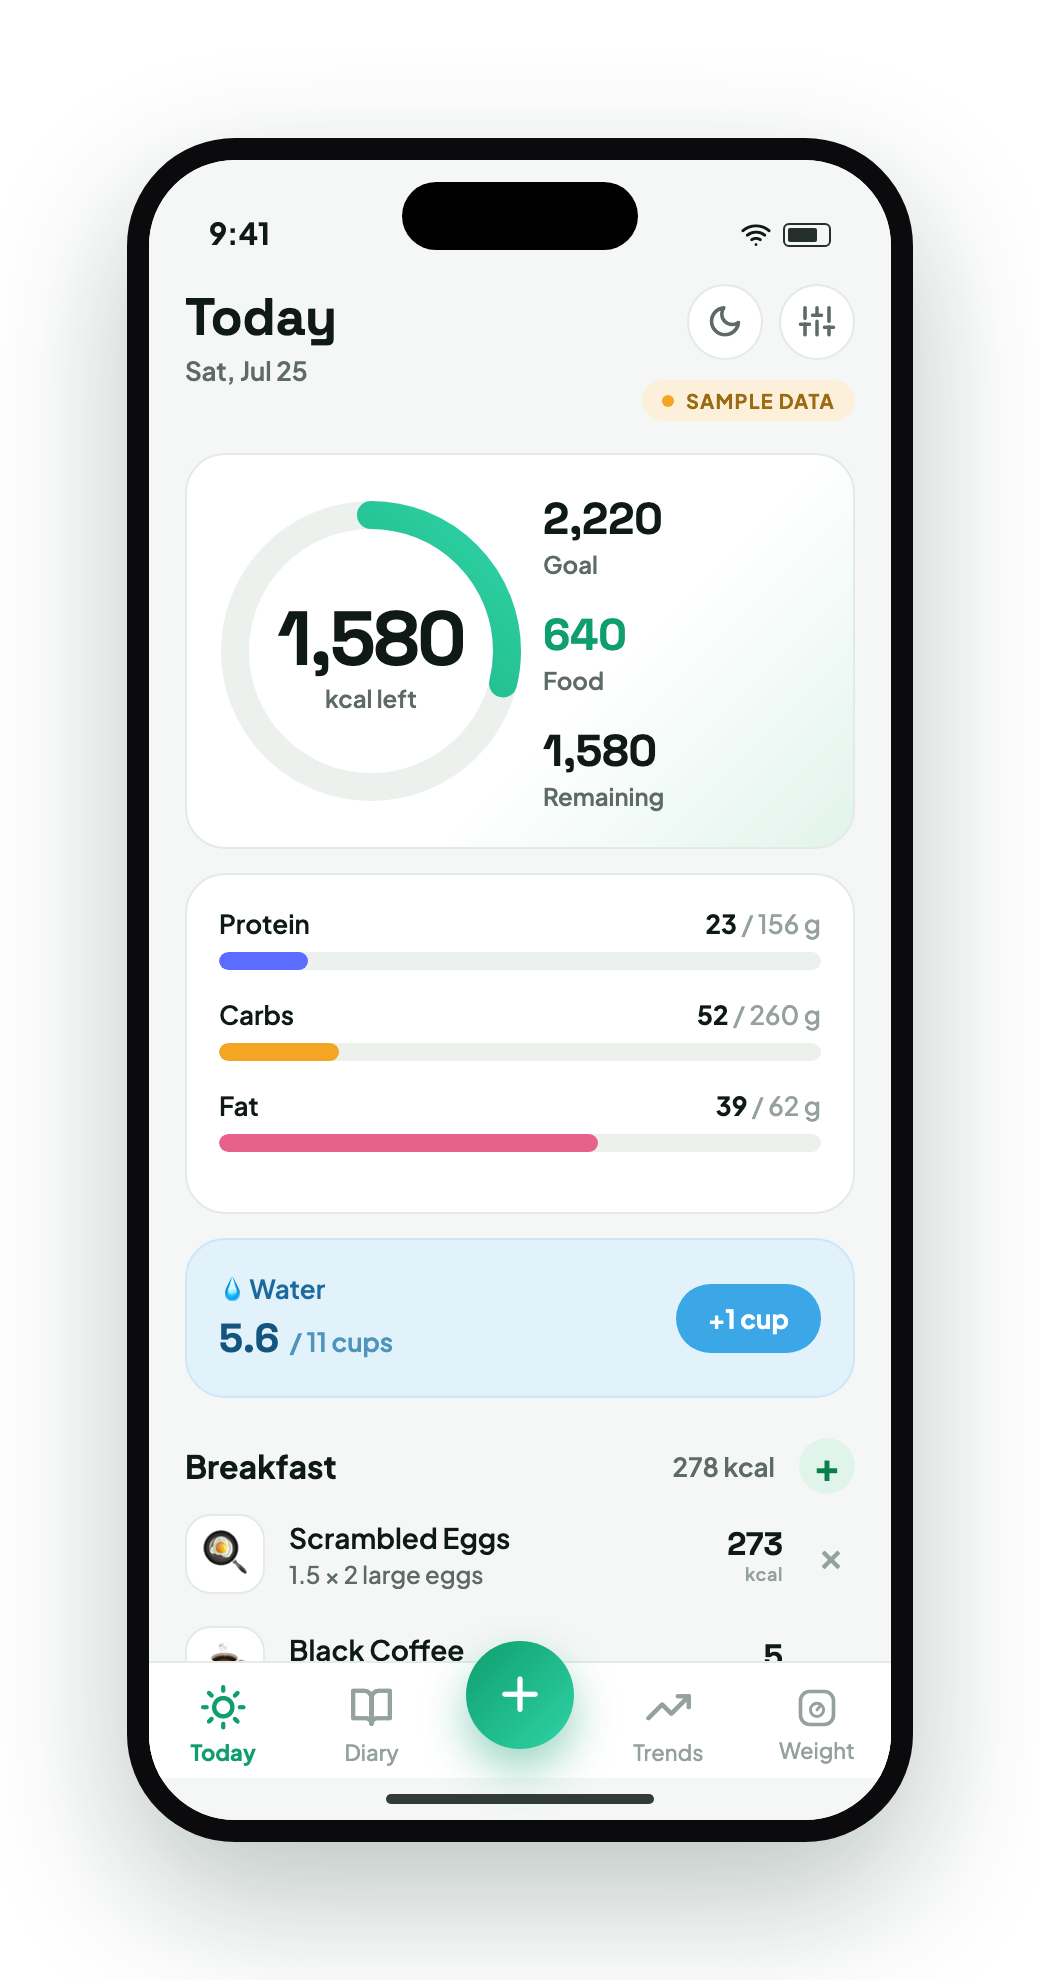
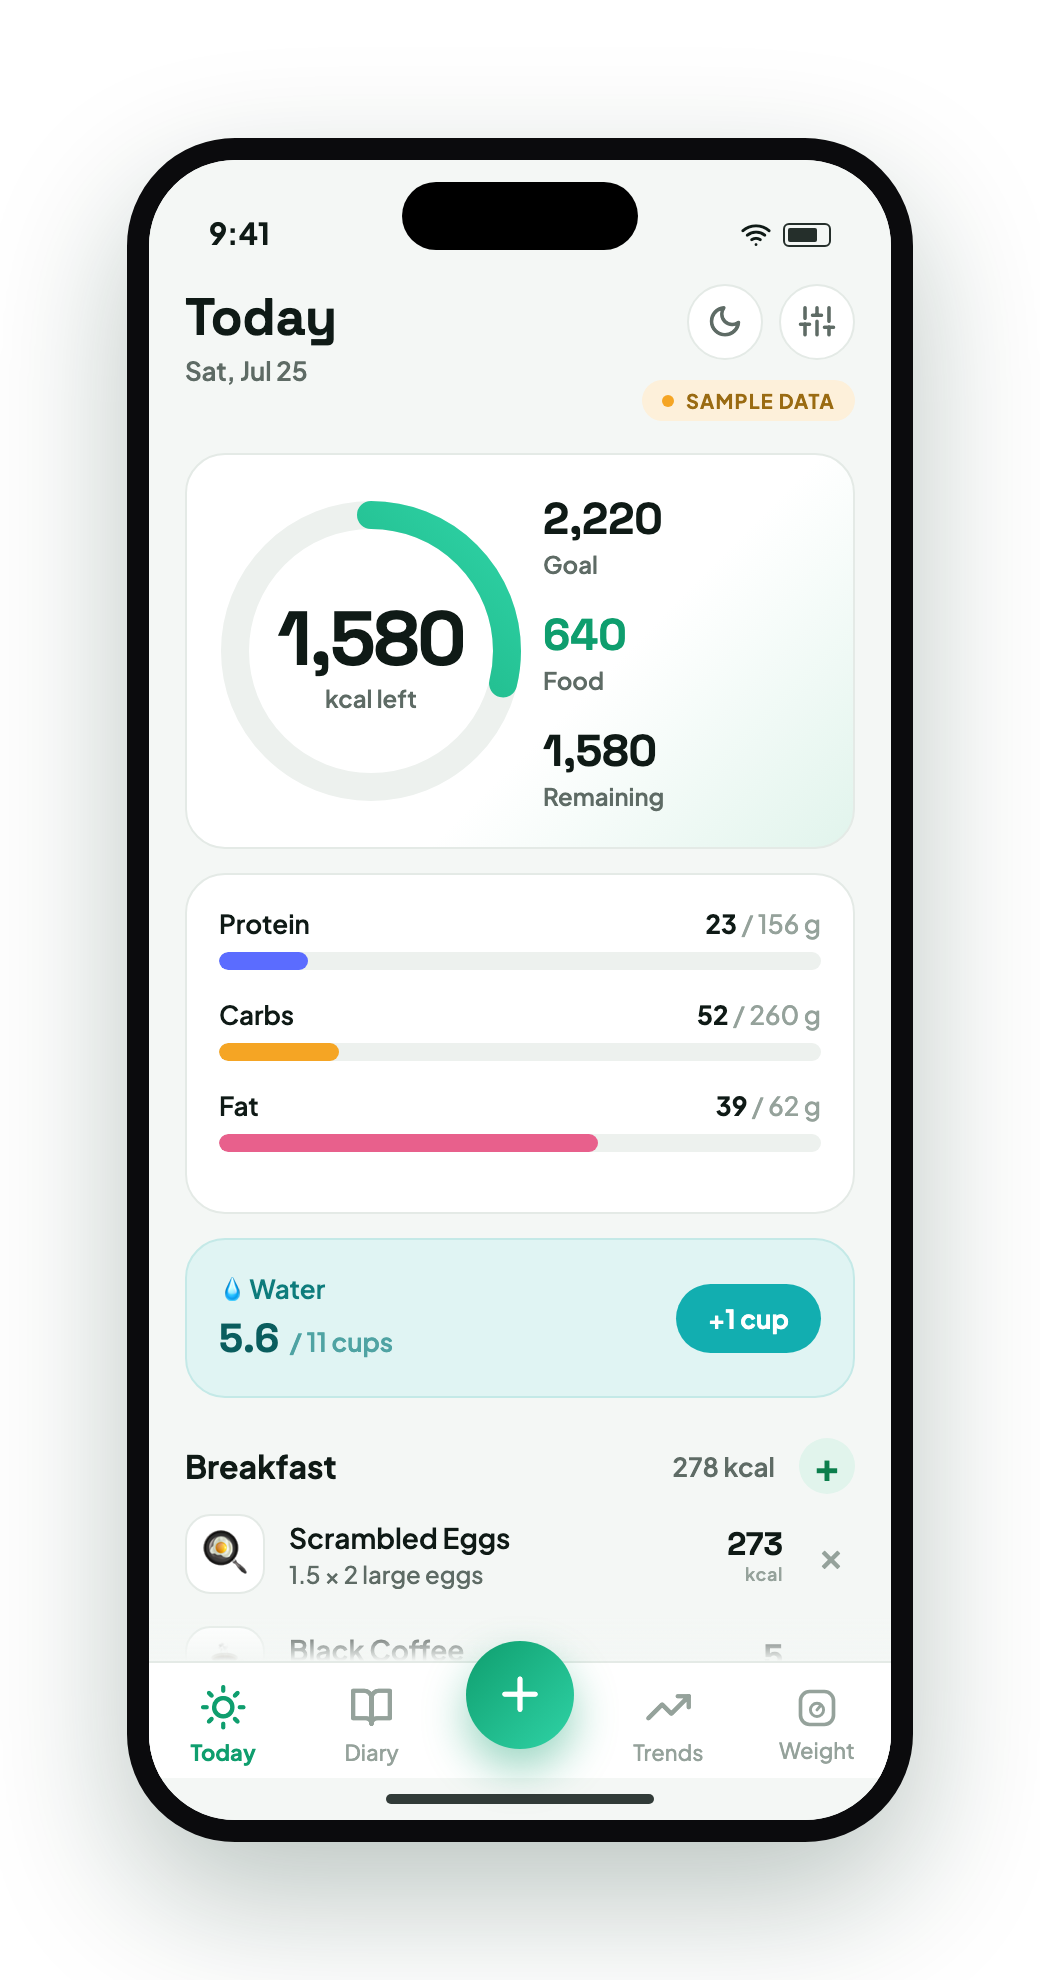
Eat2Beat: close remaining design nitpicks
- Water card retuned to teal — now in-family with the emerald/mint accents
  instead of an unrelated blue.
- All three donuts carry a center value (Add + FoodDetail = kcal, Trends =
  avg kcal/day); FoodDetail's right column now shows the serving, not a
  duplicate kcal number.
- Soft bottom fade on tab content (expo-linear-gradient) so scrolling
  content dissolves into the tab bar instead of a hard cut.
- Diary meal-header size aligned with Today; SectionTitle bumped for
  clearer hierarchy.

tsc clean; 37/37 tests green.

diff --git a/eat2beat/src/screens/FoodDetail.tsx b/eat2beat/src/screens/FoodDetail.tsx
@@ -42,10 +42,10 @@ export default function FoodDetail({
         </View>
 
         <View style={styles.kcalCard}>
-          <MacroDonut pct={pct} size={120} stroke={18} />
+          <MacroDonut pct={pct} size={120} stroke={18} centerValue={fmt(food.kcal)} centerLabel="kcal" />
           <View style={styles.kcalRight}>
-            <Text style={styles.kcalBig}>{fmt(food.kcal)}</Text>
-            <Text style={styles.kcalUnit}>kcal / serving</Text>
+            <Text style={styles.kcalServingLabel}>per serving</Text>
+            <Text style={styles.kcalServing}>{food.serving}</Text>
           </View>
         </View>
 
@@ -127,8 +127,8 @@ const makeStyles = (C: Palette) =>
       padding: 18,
     },
     kcalRight: { flex: 1 },
-    kcalBig: { fontFamily: FONT.display, fontSize: 40, color: C.text, letterSpacing: -1 },
-    kcalUnit: { fontFamily: FONT.bodySemi, fontSize: 13, color: C.textDim },
+    kcalServingLabel: { fontFamily: FONT.bodySemi, fontSize: 12, color: C.textFaint, letterSpacing: 0.3, textTransform: 'uppercase' },
+    kcalServing: { fontFamily: FONT.display, fontSize: 20, color: C.text, marginTop: 4 },
 
     factsTitle: { fontFamily: FONT.bodyBold, fontSize: 16, color: C.text, marginTop: 26, marginBottom: 12 },
     facts: {

diff --git a/eat2beat/src/theme.ts b/eat2beat/src/theme.ts
@@ -39,13 +39,14 @@ export const LIGHT = {
   fat: '#E8608C',
   fatSoft: '#FBE7EE',
 
-  // water card
-  water: '#3BA7E6',
-  waterSoft: '#E2F2FB',
-  waterBorder: '#CDE7F7',
-  waterStrong: '#12557E',
-  waterText: '#1C6A9E',
-  waterDim: '#4F94BD',
+  // water card — teal, bridging the emerald/mint family so it reads as part of
+  // the system rather than an unrelated blue
+  water: '#12AEB0',
+  waterSoft: '#E0F4F3',
+  waterBorder: '#C4E9E7',
+  waterStrong: '#0A5D5E',
+  waterText: '#0E7C7C',
+  waterDim: '#4FA3A3',
 
   // sample-data badge
   sampleBg: '#FDF0DA',
@@ -85,13 +86,13 @@ export const DARK: Palette = {
   fat: '#E8608C',
   fatSoft: '#361B25',
 
-  // water card
-  water: '#4FB3EE',
-  waterSoft: '#122A38',
-  waterBorder: '#1E3C4E',
-  waterStrong: '#BFE4F8',
-  waterText: '#9BD0F0',
-  waterDim: '#6FA6C6',
+  // water card — teal, in-family with the emerald/mint accents
+  water: '#2BC4C4',
+  waterSoft: '#0F2C2C',
+  waterBorder: '#1E4544',
+  waterStrong: '#BDECEA',
+  waterText: '#8FD9D6',
+  waterDim: '#5FA9A7',
 
   // sample-data badge
   sampleBg: '#2A2312',

diff --git a/eat2beat/App.tsx b/eat2beat/App.tsx
@@ -1,6 +1,7 @@
 import React, { useState } from 'react';
 import { View, Text, StyleSheet, Pressable, Platform } from 'react-native';
 import { StatusBar } from 'expo-status-bar';
+import { LinearGradient } from 'expo-linear-gradient';
 import { Feather } from '@expo/vector-icons';
 import {
   useFonts,
@@ -98,6 +99,12 @@ function Shell() {
         ) : (
           <Weight />
         )}
+        {/* soft fade so scrolling content dissolves into the bar instead of a hard cut */}
+        <LinearGradient
+          colors={['rgba(0,0,0,0)', C.bg]}
+          style={styles.scrollFade}
+          pointerEvents="none"
+        />
       </View>
 
       {/* tab bar with a raised center Add button */}
@@ -247,6 +254,7 @@ const makeStyles = (C: Palette) =>
     batteryFill: { width: '75%', height: '100%', borderRadius: 1, backgroundColor: C.text },
 
     content: { flex: 1 },
+    scrollFade: { position: 'absolute', left: 0, right: 0, bottom: 0, height: 22 },
     tabbar: {
       flexDirection: 'row',
       alignItems: 'center',

diff --git a/eat2beat/src/screens/Trends.tsx b/eat2beat/src/screens/Trends.tsx
@@ -90,7 +90,7 @@ export default function Trends() {
       {/* macro split */}
       <SectionTitle>Macro split · 14-day avg</SectionTitle>
       <Card style={styles.macroCard}>
-        <MacroDonut pct={pct} />
+        <MacroDonut pct={pct} centerValue={fmt(avg)} centerLabel="kcal/day" />
         <View style={styles.macroLegend}>
           <MacroLeg label="Protein" pct={pct.protein} g={periodMacros.protein} color={MACROS.protein.color} />
           <MacroLeg label="Carbs" pct={pct.carbs} g={periodMacros.carbs} color={MACROS.carbs.color} />

diff --git a/eat2beat/src/screens/Diary.tsx b/eat2beat/src/screens/Diary.tsx
@@ -117,6 +117,6 @@ const makeStyles = (C: Palette) =>
 
     meal: { marginTop: 20 },
     mealHead: { flexDirection: 'row', alignItems: 'center', justifyContent: 'space-between', marginBottom: 2 },
-    mealName: { fontFamily: FONT.bodyBold, fontSize: 15, color: C.text },
+    mealName: { fontFamily: FONT.bodyBold, fontSize: 16, color: C.text },
     mealKcal: { fontFamily: FONT.bodySemi, fontSize: 13, color: C.textDim },
   });

diff --git a/eat2beat/src/ui.tsx b/eat2beat/src/ui.tsx
@@ -80,7 +80,7 @@ const makeStyles = (C: Palette) =>
       marginTop: 22,
       marginBottom: 12,
     },
-    section: { fontFamily: FONT.bodyBold, fontSize: 16, color: C.text },
+    section: { fontFamily: FONT.bodyBold, fontSize: 17, color: C.text, letterSpacing: -0.3 },
     sample: {
       flexDirection: 'row',
       alignItems: 'center',
